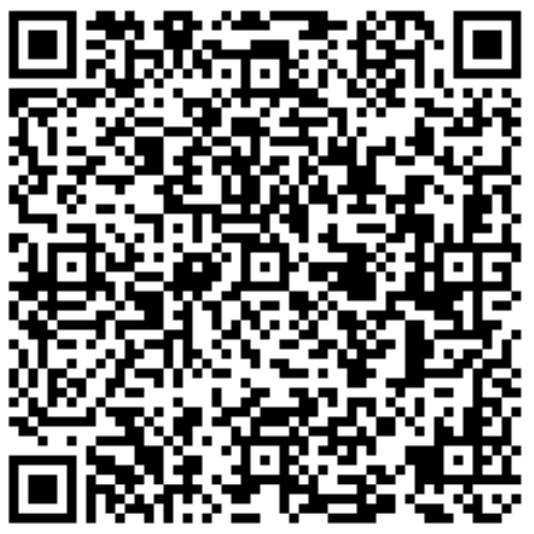
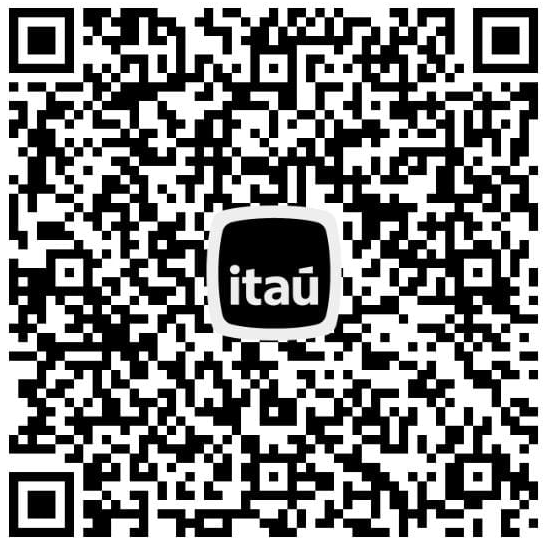
fix: update bank institution name and correct PIX code for maintenance

diff --git a/src/utils/constants.ts b/src/utils/constants.ts
@@ -13,4 +13,4 @@ export const CITY_TO_SEARCH_WITHOUT_NUMBER = [
 export const MAX_MESSAGE_LENGTH = 500;
 
 export const PIX_COPIA_E_COLA =
-  "00020126910014BR.GOV.BCB.PIX0131dev.fernandoguerreiro@gmail.com0234Contribuicao para o site buscarcep5204000053039865802BR5925FERNANDO LUIZ GUERREIRO R6015LIMOEIRO DO NOR622605224mZZm3yTB7G5nAMEDXtIi5630452AD";
+  "00020126680014BR.GOV.BCB.PIX0114+55889963462130228Contribuicao para manutencao5204000053039865802BR5925FERNANDO LUIZ G RODRIGUES6015LIMOEIRO DO NOR6226052218h8BtfmuHNZtEJSueXmAk63048B64";

diff --git a/src/components/footer/index.tsx b/src/components/footer/index.tsx
@@ -97,7 +97,7 @@ export function Footer() {
               CPF: ***.881.983-**
             </p>
             <p className="text-xs md:text-sm text-gray-800">
-              Instituição: Bco Itaucard S.A.
+              Instituição: Itaú Unibanco S.A.
             </p>
           </div>
         </Modal>
